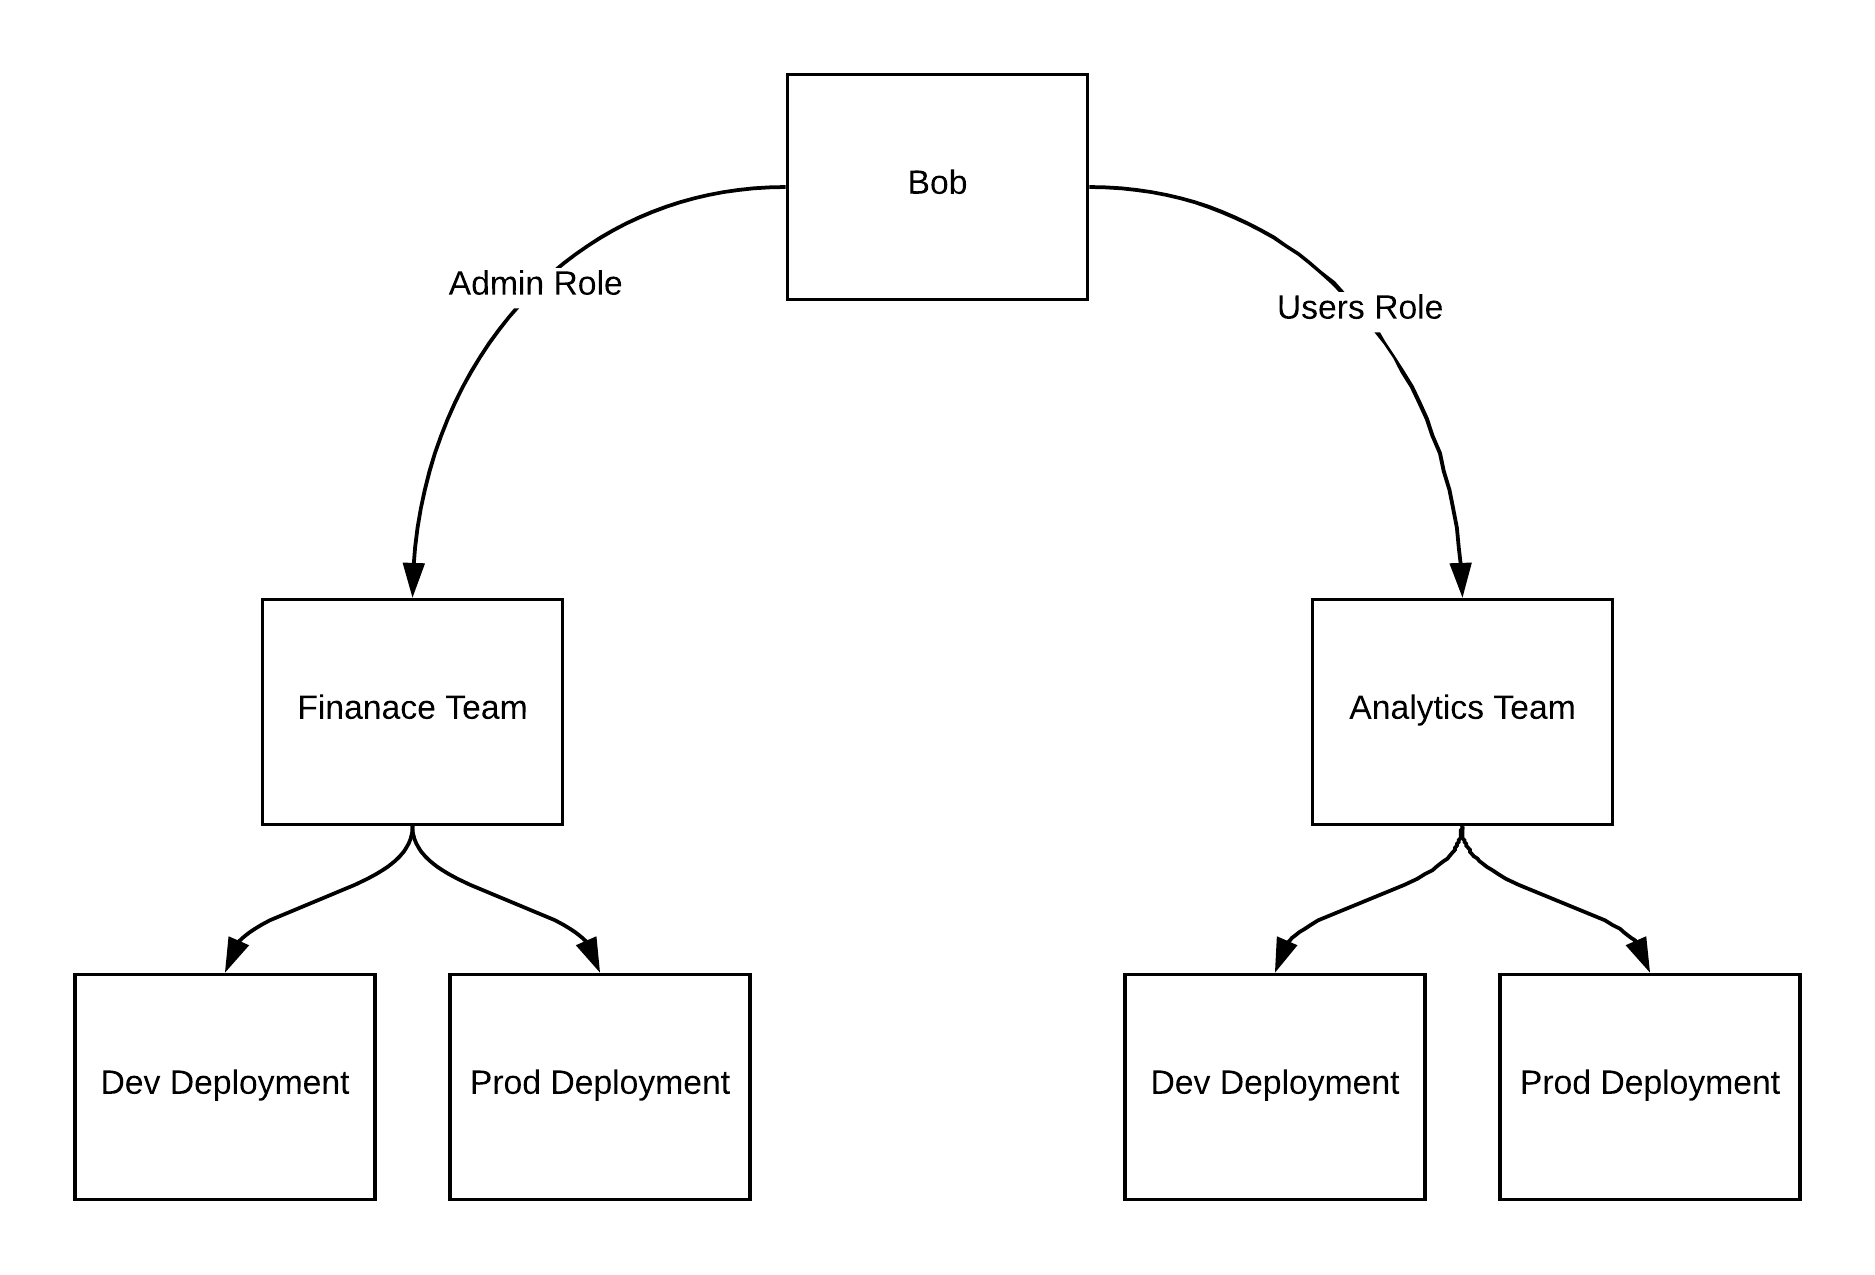
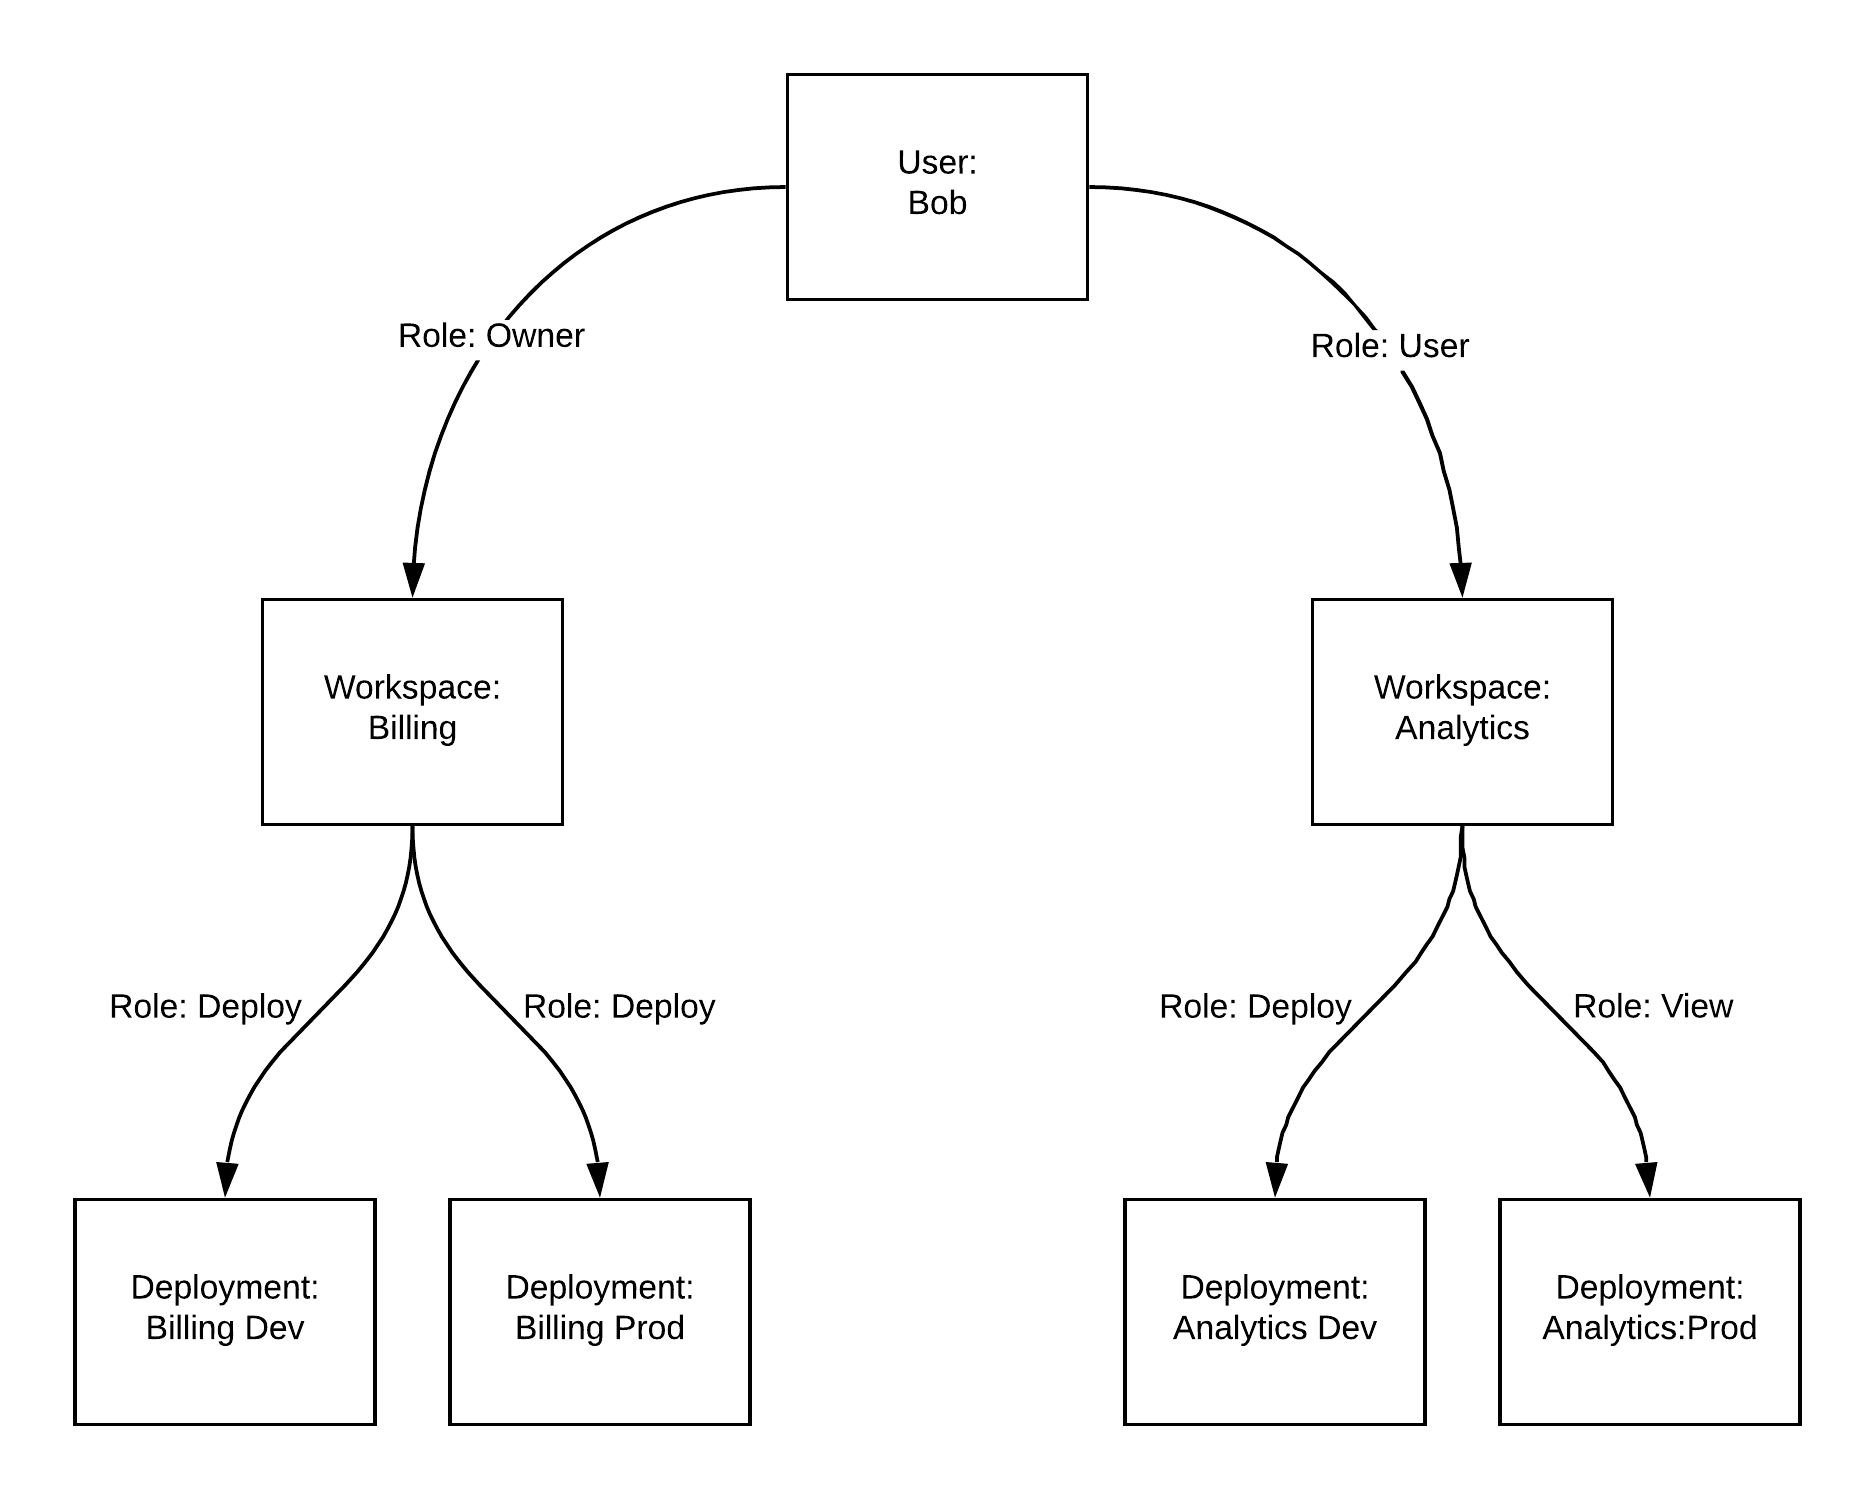
Update RBAC doc

diff --git a/docs/pages/guides/rbac.md b/docs/pages/guides/rbac.md
@@ -25,10 +25,10 @@ to define a user's access to a team and group of deployments, i.e.
 `owner`, `admin`, `user`. These are customizable for each Astronomer deployment
 as global options, and also definable on a team basis.
 
-### Teams
+### Workspaces
 
-Teams contain a group of Airflow Cluster Deployments, and are also linked
-to a group of users with designated roles.
+Workspaces contain a group of Airflow Cluster Deployments. The creator of the
+workspace can invite other users into it.
 
 ## Advanced Features
 
